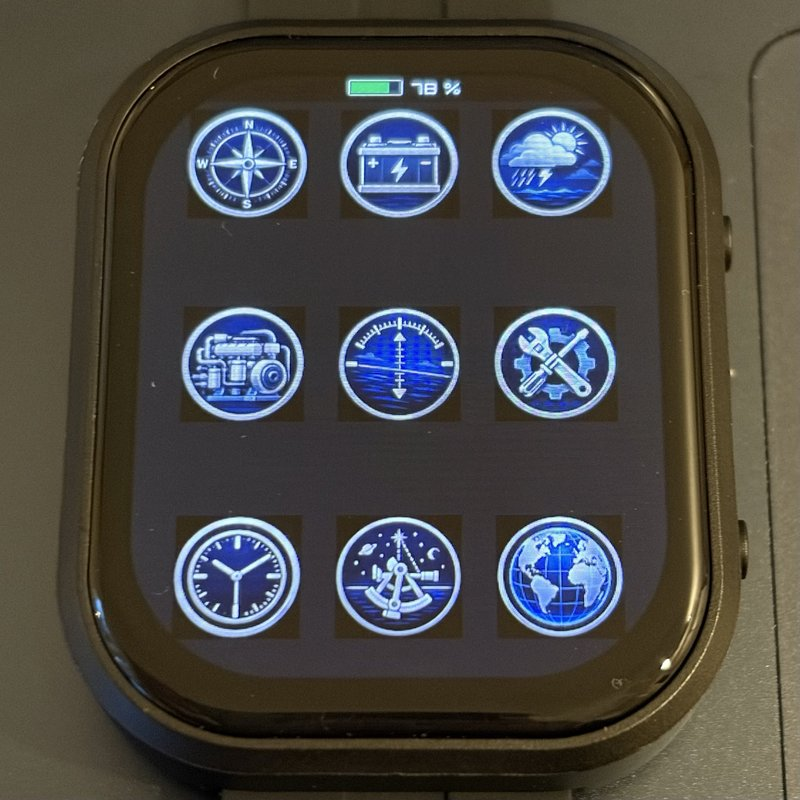
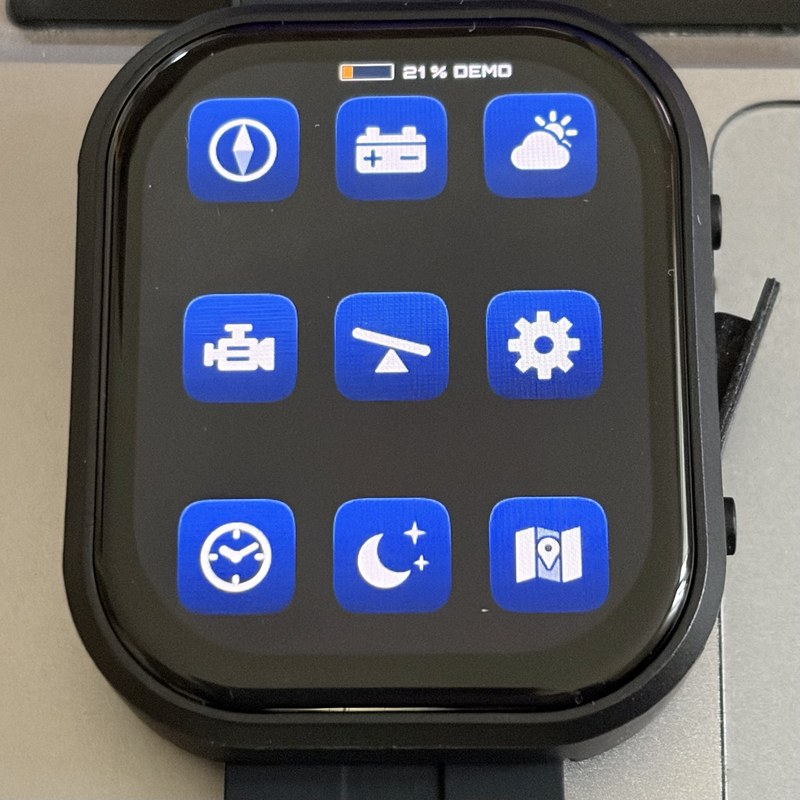
Docs: new watch photos and bow-up in README
Engine, day and night menu photos updated; bow-up chart photo added.
README's Chart section describes bow-up.

diff --git a/README.md b/README.md
@@ -42,7 +42,7 @@ Screens (carousel, plus a page menu for direct access):
 - **Clock** — local date + weekday, local and UTC time (GNSS-disciplined, no RTC chip, no NTP)
 - **Setup** — display brightness, wake time, prevent sleep, demo mode and night mode, all persisted to NVS
 - **Celestial** — computed altitude and azimuth (Hc, Zn) of the Sun, Moon and twilight bodies for sextant practice, with UTC time, pressure, temperature and position
-- **Chart** — Traficom's nautical chart from a microSD card, north up, with the boat, heading, COG vector and a 0.25 NM range ring on top
+- **Chart** — Traficom's nautical chart from a microSD card, north up or bow-up (double tap), with the boat, heading, COG vector and a 0.25 NM range ring on top
 
 Developed on:
 - [Waveshare ESP32-S3-Touch-AMOLED-2.06](https://docs.waveshare.com/ESP32-S3-Touch-AMOLED-2.06) (SKU 31957)
@@ -310,15 +310,16 @@ A sight-reduction aid for sextant practice: the computed altitude **Hc** and tru
 
 ### Chart screen
 
-<img src="docs/chart.jpeg" height="260" alt="Chart (on the watch), day"> <img src="docs/night_chart.jpeg" height="260" alt="Chart (on the watch), night">
+<img src="docs/chart.jpeg" height="260" alt="Chart (on the watch), day"> <img src="docs/chart_bowup.jpeg" height="260" alt="Chart (on the watch), bow-up"> <img src="docs/night_chart.jpeg" height="260" alt="Chart (on the watch), night">
 
 <img src="docs/chart.png" height="260" alt="Chart, illustration with a fictional chart, day"> <img src="docs/night_chart.png" height="260" alt="Chart, illustration with a fictional chart, night">
 
 > The photos show the watch with Traficom's chart (see [Nautical chart data](#nautical-chart-data)). The two images below them are illustrations of the screen, with symbols at the watch's sizes on a randomly generated, fictional chart. They contain no Traficom data and do not show a real place.
 
-Traficom's nautical chart series A from a microSD card, about 1 NM across the display's height at a fixed 4 m/px. North up, with no zoom or pan. The firmware never fetches anything: a tool on a Mac prepares the card once (see [Chart card](#chart-card)).
+Traficom's nautical chart series A from a microSD card, about 1 NM across the display's height at a fixed 4 m/px. North up or bow-up, with no zoom or pan. The firmware never fetches anything: a tool on a Mac prepares the card once (see [Chart card](#chart-card)).
 
 - **Symbols:** the boat, a fixed 0.25 NM range ring that doubles as the scale, a solid heading line out to the ring and a dashed COG vector showing the distance covered in 3 min at SOG. True bearings are turned to the chart's grid north with the meridian convergence, which is about 2–3.5° in western Finland
+- **Bow-up:** a double tap on the screen switches between north up and bow-up, where the heading's grid bearing points up and a red north arrow on the right edge shows north. The map turns in steps, not continuously: when the heading has been 10° or more off the map's for 2 s, at most every 3 s, recentered on the boat at the same time. In between the symbols move and turn on the map as in north up. A heading gap up to 21 s keeps the last angle; a longer one turns the map north up until the next double tap. The choice is kept across sleep; a wake's first map is north up and turns when the first heading lands
 - **Values:** COG, HDG, SOG and DPT in the corners, on half-transparent backgrounds and under the same freshness rules as the [Navigation screen](#navigation-screen)
 - **Recentering:** the map centers on the boat when the screen opens, on a wake or boot, and when the page menu or status screen closes, then again after 21 s if the display is still on, or at once if the boat is off the view. In between the map stands still and the boat moves on it, about once per second
 - **Freshness:** without a fresh fix all symbols are hidden, since a stale boat on a chart invites a wrong decision. The map may stay on the [last known position](#celestial-screen), up to 1 h old, marked `No fix *` (up to 15 min) or `No fix **` (up to 1 h). A fresh fix takes over at once. The heading line needs compass data under 5 s old, and the COG vector needs SOG of at least 0.5 kn
